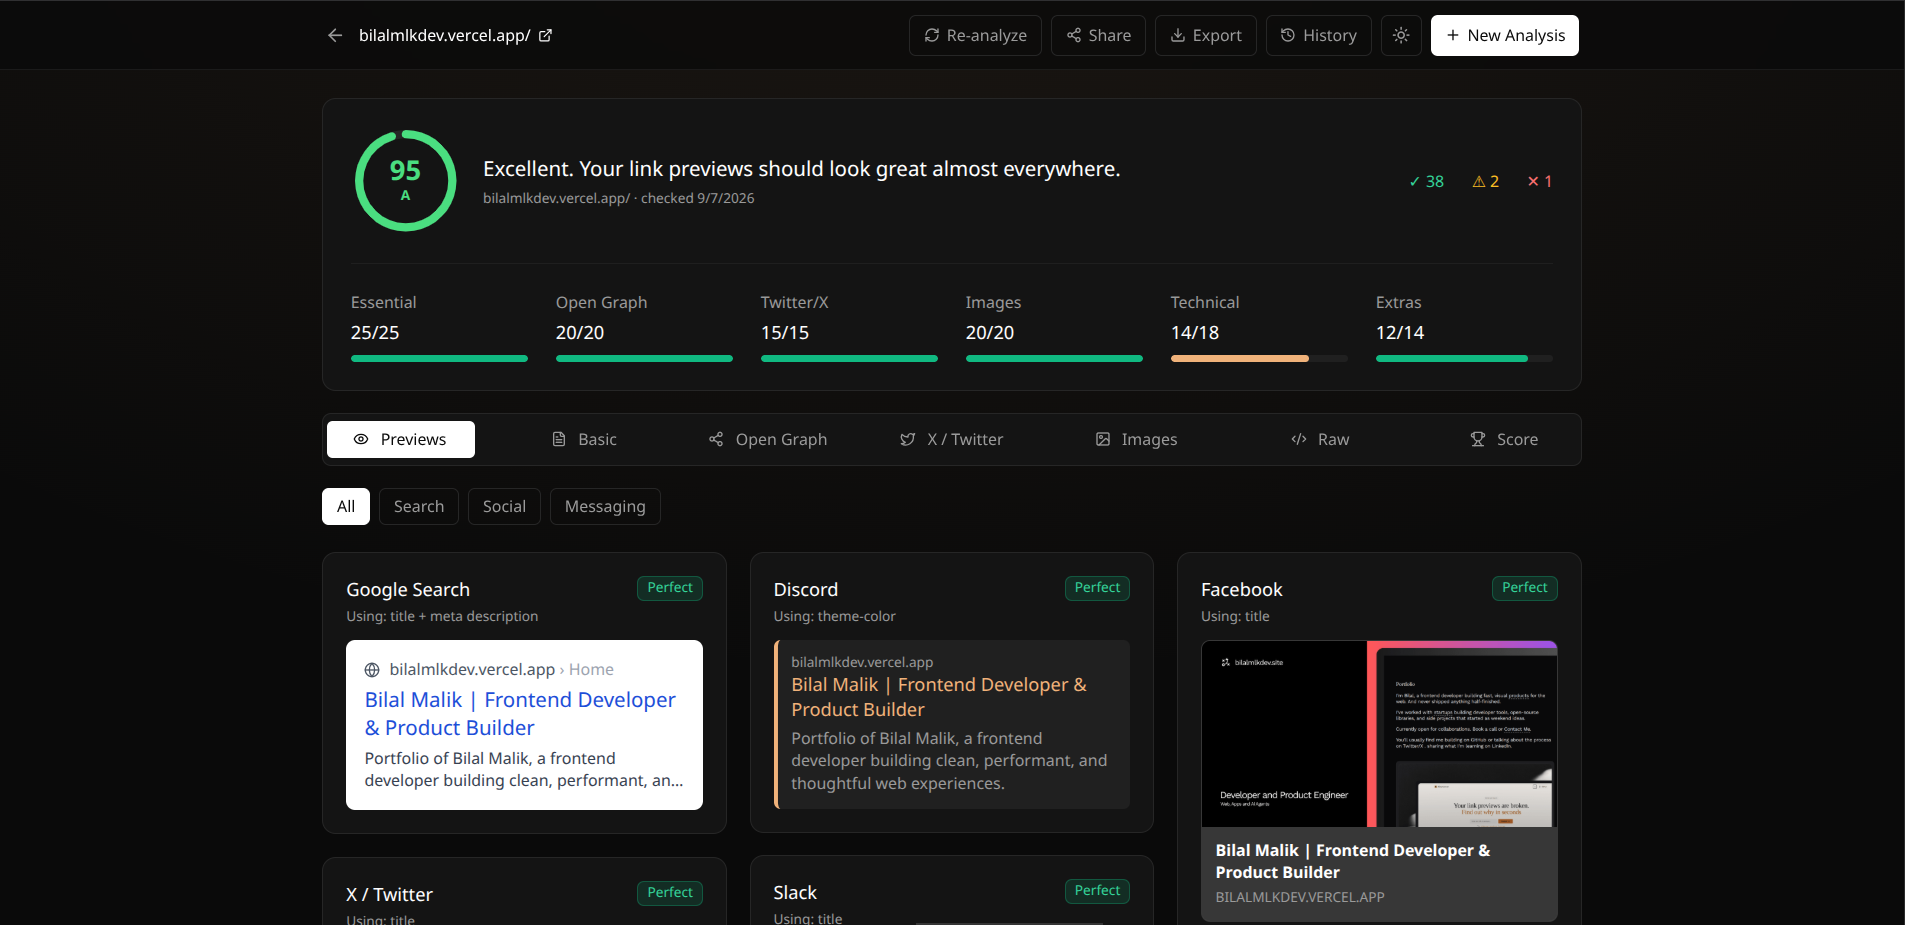
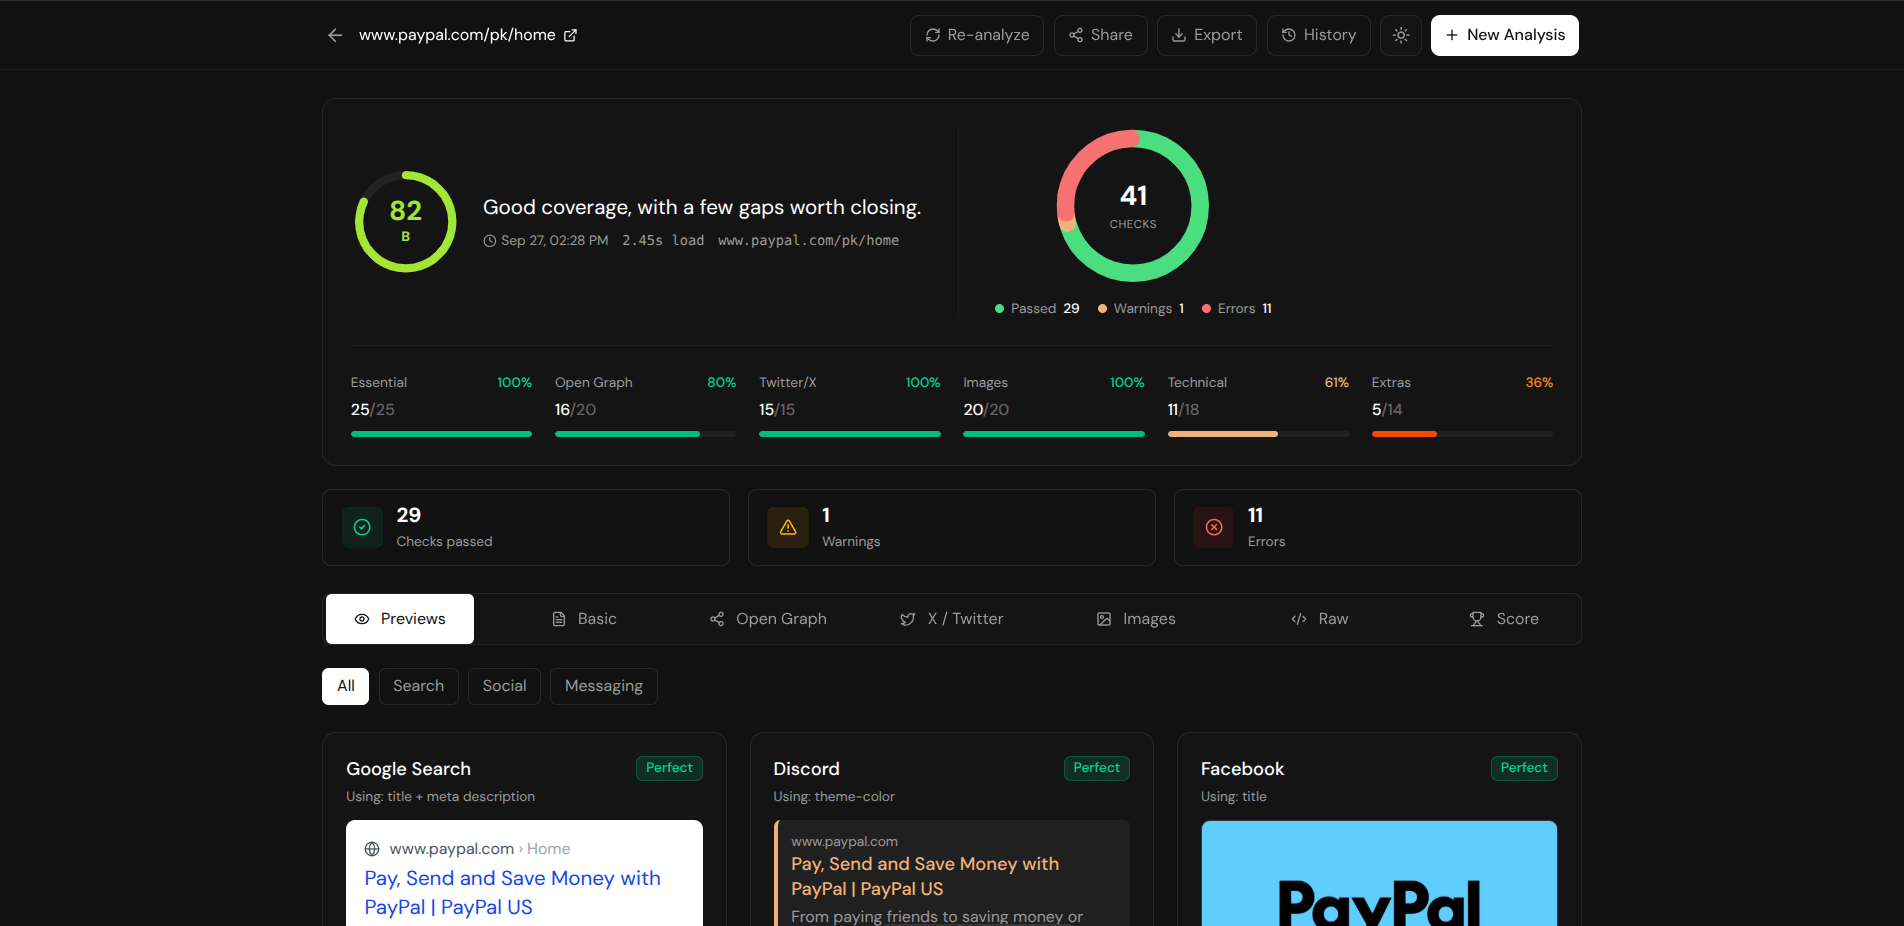
feat: complete open-source setup, add vercel.json, CI, CONTRIBUTING, Code of Conduct, route loader, global nav progress, delete buttons, and clean up project

diff --git a/components/RecentAnalysis.tsx b/components/RecentAnalysis.tsx
@@ -2,7 +2,7 @@
 
 import { useEffect, useState } from "react";
 import Link from "next/link";
-import { Clock, CheckCircle2, AlertTriangle, XCircle } from "lucide-react";
+import { Clock, CheckCircle2, AlertTriangle, XCircle, Trash2 } from "lucide-react";
 import { useHistory } from "@/hooks/useHistory";
 import { GradeBadge } from "@/components/ui/GradeBadge";
 import { TimeAgo } from "@/components/ui/TimeAgo";
@@ -13,7 +13,7 @@ import Image from "next/image";
 import { ExternalLink } from "lucide-react";
 
 export function RecentAnalysis() {
-  const { entries } = useHistory();
+  const { entries, remove } = useHistory();
   const [loaded, setLoaded] = useState(false);
 
   useEffect(() => {
@@ -43,12 +43,13 @@ export function RecentAnalysis() {
             const ogImg = entry.ogImage;
 
             return (
-              <Tooltip key={entry.id} label={name} className="w-full h-full">
-                <Link
-                  href={`/results/${entry.id}`}
-                  className="group flex flex-col w-full h-full min-h-[260px] rounded-xl border border-border bg-background/60 p-3 sm:p-4 transition-all hover:border-accent/30 rise-in overflow-hidden"
-                  style={{ animationDelay: `${i * 60}ms` }}
-                >
+              <div key={entry.id} className="relative group w-full h-full">
+                <Tooltip label={name} className="w-full h-full">
+                  <Link
+                    href={`/results/${entry.id}`}
+                    className="group flex flex-col w-full h-full min-h-[260px] rounded-xl border border-border bg-background/60 p-3 sm:p-4 transition-all hover:border-accent/30 rise-in overflow-hidden"
+                    style={{ animationDelay: `${i * 60}ms` }}
+                  >
                   <div className="relative h-32 shrink-0 rounded-lg overflow-hidden bg-grid mb-2">
                     {ogImg ? (
                       <Image src={ogImg} alt="" fill sizes="(max-width: 640px) 100vw, 25vw" className="object-cover group-hover:scale-[1.02] transition-transform duration-300" unoptimized style={{ objectPosition: "top center" }} />
@@ -76,7 +77,15 @@ export function RecentAnalysis() {
                     <div className="mt-auto pt-1.5 text-[10px] text-muted/40 tabular-nums"><TimeAgo date={entry.fetchedAt} /></div>
                   </div>
                 </Link>
-              </Tooltip>
+                </Tooltip>
+                <button
+                  onClick={(ev) => { ev.preventDefault(); ev.stopPropagation(); remove(entry.id); }}
+                  aria-label={`Delete ${name}`}
+                  className="absolute bottom-3 right-3 h-7 w-7 flex items-center justify-center rounded-lg bg-black/60 backdrop-blur-sm text-white/70 hover:text-red-400 transition-colors opacity-0 group-hover:opacity-100 focus:opacity-100 z-10"
+                >
+                  <Trash2 size={13} />
+                </button>
+              </div>
             );
           })}
         </div>

diff --git a/components/RouteLoader.tsx b/components/RouteLoader.tsx
@@ -1,0 +1,79 @@
+"use client";
+
+import { useEffect, useState, useRef, useCallback } from "react";
+
+export function RouteLoader() {
+  const [loading, setLoading] = useState(false);
+  const [progress, setProgress] = useState(0);
+  const timerRef = useRef<ReturnType<typeof setInterval> | null>(null);
+  const hideRef = useRef<ReturnType<typeof setTimeout> | null>(null);
+  const readyRef = useRef(true);
+
+  const startLoading = useCallback(() => {
+    if (!readyRef.current) return;
+    readyRef.current = false;
+    setLoading(true);
+    setProgress(0);
+    if (timerRef.current) clearInterval(timerRef.current);
+    timerRef.current = setInterval(() => {
+      setProgress((p) => (p < 100 ? p + Math.random() * 12 : 100));
+    }, 80);
+  }, []);
+
+  useEffect(() => {
+    const handlePop = () => startLoading();
+
+    const origPush = window.history.pushState;
+    const origReplace = window.history.replaceState;
+    window.history.pushState = function (...args) {
+      startLoading();
+      return origPush.apply(this, args);
+    };
+    window.history.replaceState = function (...args) {
+      startLoading();
+      return origReplace.apply(this, args);
+    };
+
+    const handleClick = (e: MouseEvent) => {
+      const anchor = (e.target as HTMLElement).closest("a[href]");
+      if (anchor && !(anchor as HTMLAnchorElement).target?.includes("_blank")) {
+        startLoading();
+      }
+    };
+
+    document.addEventListener("click", handleClick, true);
+    window.addEventListener("popstate", handlePop);
+
+    return () => {
+      window.history.pushState = origPush;
+      window.history.replaceState = origReplace;
+      window.removeEventListener("popstate", handlePop);
+      document.removeEventListener("click", handleClick, true);
+      if (timerRef.current) clearInterval(timerRef.current);
+    };
+  }, [startLoading]);
+
+  useEffect(() => {
+    if (!loading || progress < 95) return;
+    if (timerRef.current) clearInterval(timerRef.current);
+    hideRef.current = setTimeout(() => {
+      setLoading(false);
+      setProgress(0);
+      readyRef.current = true;
+    }, 250);
+    return () => {
+      if (hideRef.current) clearTimeout(hideRef.current);
+    };
+  }, [loading, progress]);
+
+  if (!loading) return null;
+
+  return (
+    <div className="fixed top-0 left-0 right-0 z-[9999] h-0.5 bg-transparent pointer-events-none">
+      <div
+        className="h-full bg-accent rounded-r-full"
+        style={{ width: `${progress}%`, opacity: progress >= 100 ? 0 : 1, transition: "width 80ms linear, opacity 300ms ease" }}
+      />
+    </div>
+  );
+}

diff --git a/components/sections/HeroSection.tsx b/components/sections/HeroSection.tsx
@@ -13,23 +13,28 @@ export function HeroSection() {
         </div>
 
         <h1 className="font-instrument-serif text-[2.5rem] sm:text-[4.5rem] md:text-[5.5rem] leading-[1.05] tracking-tight text-balance">
-          <span className="text-fg/30">Understand </span>
-          <span className="text-fg">Any</span>
-          <span className="text-fg/30"> Link</span>
-          <br />
+          <span className="text-fg/30">See How Your </span>
           <span className="relative inline-block text-fg">
-            In Seconds
-            <svg aria-hidden className="absolute -bottom-1 left-0 w-full h-3 overflow-visible" viewBox="0 0 200 12" fill="none" preserveAspectRatio="none">
-              <path d="M3 7 C 30 3, 55 3, 80 7 C 105 11, 130 11, 155 7 C 170 4.5, 185 4.5, 197 6" stroke="rgb(var(--color-accent))" strokeWidth="2.8" strokeLinecap="round" fill="none" />
+            Link
+            <svg aria-hidden className="absolute -bottom-1 left-0 w-full h-3 overflow-visible" viewBox="0 0 60 12" fill="none" preserveAspectRatio="none">
+              <path d="M3 7 C 12 3, 22 3, 30 7 C 38 11, 48 11, 57 6" stroke="var(--color-accent)" strokeWidth="2.8" strokeLinecap="round" fill="none" />
             </svg>
           </span>
-          <span className="text-fg/30">, Not in Hours.</span>
+          <span className="text-fg/30"> Looks</span>
+          <br />
+          <span className="text-fg/30">Everywhere, </span>
+          <span className="relative inline-block text-fg">
+            Instantly
+            <svg aria-hidden className="absolute -bottom-1 left-0 w-full h-3 overflow-visible" viewBox="0 0 140 12" fill="none" preserveAspectRatio="none">
+              <path d="M3 7 C 25 3, 48 3, 70 7 C 92 11, 115 11, 137 6" stroke="var(--color-accent)" strokeWidth="2.8" strokeLinecap="round" fill="none" />
+            </svg>
+          </span>
         </h1>
 
         <p className="text-muted text-base sm:text-lg leading-relaxed mt-7 max-w-xl mx-auto">
-          Paste any URL and see the preview card it actually produces,
-          then fix what&apos;s cropped, missing, or wrong before someone
-          else sees it first.
+          Paste any URL and get an instant preview of how it renders across
+          every major platform - with a score, real image dimensions, and
+          copy-paste fixes for anything that&apos;s broken.
         </p>
 
         <div id="analyze" className="mt-10 w-full flex justify-center scroll-mt-24">

diff --git a/app/layout.tsx b/app/layout.tsx
@@ -1,6 +1,7 @@
 import type { Metadata } from "next";
 import { DM_Sans } from "next/font/google";
 import { Instrument_Serif } from "next/font/google";
+import { RouteLoader } from "@/components/RouteLoader";
 import "./globals.css";
 
 const dmSans = DM_Sans({
@@ -54,6 +55,7 @@ export default function RootLayout({
         <link rel="shortcut icon" href="/favicon.svg" type="image/svg+xml" />
       </head>
       <body className="bg-background text-fg font-sans antialiased min-h-screen transition-colors">
+        <RouteLoader />
         {children}
       </body>
     </html>

diff --git a/app/history/loading.tsx b/app/history/loading.tsx
@@ -1,0 +1,13 @@
+export default function Loading() {
+  return (
+    <div className="min-h-screen flex flex-col">
+      <div className="h-16 border-b border-border" />
+      <div className="flex-1 flex items-center justify-center">
+        <div className="flex flex-col items-center gap-4">
+          <div className="h-8 w-8 rounded-full border-2 border-accent border-t-transparent animate-spin" />
+          <p className="text-sm text-muted">Loading history...</p>
+        </div>
+      </div>
+    </div>
+  );
+}

diff --git a/app/results/loading.tsx b/app/results/loading.tsx
@@ -1,0 +1,13 @@
+export default function Loading() {
+  return (
+    <div className="min-h-screen flex flex-col">
+      <div className="h-16 border-b border-border" />
+      <div className="flex-1 flex items-center justify-center">
+        <div className="flex flex-col items-center gap-4">
+          <div className="h-8 w-8 rounded-full border-2 border-accent border-t-transparent animate-spin" />
+          <p className="text-sm text-muted">Loading results...</p>
+        </div>
+      </div>
+    </div>
+  );
+}

diff --git a/app/loading.tsx b/app/loading.tsx
@@ -1,0 +1,13 @@
+export default function Loading() {
+  return (
+    <div className="min-h-screen flex flex-col">
+      <div className="h-16 border-b border-border" />
+      <div className="flex-1 flex items-center justify-center">
+        <div className="flex flex-col items-center gap-4">
+          <div className="h-8 w-8 rounded-full border-2 border-accent border-t-transparent animate-spin" />
+          <p className="text-sm text-muted">Loading...</p>
+        </div>
+      </div>
+    </div>
+  );
+}

diff --git a/README.md b/README.md
@@ -18,13 +18,13 @@
 
 </div>
 
-# The Problem This Solves
+## The Problem This Solves
 
 You share a link and the preview card that shows up in Slack, Discord, or X looks wrong - missing image, blank title, or nothing at all. The page's own HTML looks fine when you eyeball it. Browser dev tools don't tell you which of the 40-odd things that could be wrong actually is, and every platform reads Open Graph and Twitter Card tags slightly differently, so "it works on X" doesn't mean it works anywhere else.
 
 Metaviewer replaces the guessing with an actual score. Paste a URL and get a 0-100 grade across six categories, a real rendered preview on nine platforms side by side, and a specific copy-paste fix for every check that's failing - not a generic "add an og:image tag" but the exact line your page is missing.
 
-# What You Actually Get
+## What You Actually Get
 
 - **You stop guessing which platform is broken.** Live previews for Google, X, LinkedIn, Discord, Slack, WhatsApp, Telegram, Facebook, and iMessage, side by side, so you see the actual difference instead of imagining it.
 - **You get a real score, not a pass/fail.** 0-100 with an A-F grade across six categories and 40+ individual checks - enough resolution to tell "basically fine" from "one tag away from perfect."
@@ -33,7 +33,7 @@ Metaviewer replaces the guessing with an actual score. Paste a URL and get a 0-1
 - **You can take the result with you.** Export as JSON, CSV, raw HTML, or PNG, or share the result URL directly.
 - **Nothing requires an account.** History lives in your browser; there's no sign-up standing between you and a check.
 
-# How It Works Under the Hood
+## How It Works Under the Hood
 
 **One server hop, and only because browsers force it.** Submitting a URL sends you straight to a full-page loading screen while `app/api/analyze/route.ts` fetches the target page server-side, parses it with cheerio, probes its images for real dimensions, and scores it. That's the only server-side step, and it exists purely because a browser can't `fetch()` arbitrary cross-origin HTML - nothing about your check is stored on the server.
 
@@ -43,7 +43,7 @@ Metaviewer replaces the guessing with an actual score. Paste a URL and get a 0-1
 
 **Scoring has one source of truth.** `lib/analyzer.ts` holds `CHECKS[]`, and every result tab reads `result.checks` / `result.categoryScores` from it - no tab recomputes pass/fail on its own, so the score you see on the Score tab and the checks shown elsewhere can never quietly disagree.
 
-# The Results Page
+## The Results Page
 
 Seven tabs, all reading the same `AnalysisResult`, nothing mocked: Previews, Basic, Open Graph, X/Twitter, Images, Raw, Score.
 
@@ -52,7 +52,7 @@ Seven tabs, all reading the same `AnalysisResult`, nothing mocked: Previews, Bas
 - **Images** shows decoded pixel dimensions for your OG image, favicon, and apple-touch-icon, flagging the difference when a site's declared dimensions don't match what was actually fetched.
 - **Basic** surfaces detected JSON-LD `@type`s under a Structured Data row, backed by the `structured-data` check.
 
-# Tech Stack
+## Tech Stack
 
 - **Next.js 14** (App Router) + **TypeScript**
 - **Tailwind CSS**, CSS-variable theming (dark/light, no flash on load)
@@ -60,7 +60,7 @@ Seven tabs, all reading the same `AnalysisResult`, nothing mocked: Previews, Bas
 - No UI/animation component libraries - everything here is hand-built
 - No image-decoding library - dimension probing is a from-scratch header parser
 
-# Project Structure
+## Project Structure
 
 ```
 app
@@ -98,7 +98,7 @@ lib
 types/index.ts    all shared TypeScript types - extend here first
 ```
 
-# Getting Started
+## Getting Started
 
 ```bash
 npm install
@@ -116,7 +116,7 @@ npm run start
 
 Deploys cleanly to Vercel with zero configuration - a standard Next.js 14 App Router project, one serverless API route, no environment variables required. Verified locally with a clean `npm install && npm run build` on Next.js 14.2.35, strict TypeScript, `noUncheckedIndexedAccess` on.
 
-# Known Gaps
+## Known Gaps
 
 Worth knowing about before you rely on this for something critical:
 
@@ -125,7 +125,7 @@ Worth knowing about before you rely on this for something critical:
 - **Results don't follow you across devices**, by design - see "How It Works" above. This is exactly the seam a real backend would slot into: swap `localHistory.ts`'s internals, keep its function signatures.
 - **Fix strings in `checkFixes.ts` are static**, not interpolated from the site's actual extracted values - unlike the Open Graph/Twitter tabs' `CodeFixBlock`, which does fill in real values. Upgrading fixes to include the site's own URL/title/etc. is an open improvement.
 
-# Contributing
+## Contributing
 
 Contributions are welcome. Read **[CONTRIBUTING.md](CONTRIBUTING.md)** for setup, architecture, and PR guidelines. All contributors are expected to follow the **[Code of Conduct](CODE_OF_CONDUCT.md)**.
 
@@ -137,6 +137,6 @@ Quick rules:
 4. No new npm dependencies without a real reason.
 5. `lib/analyzer.ts` is the single source of truth for scoring.
 
-# License (MIT)
+## License (MIT)
 
 This project is licensed under the MIT License - see [LICENSE](LICENSE) for details.
